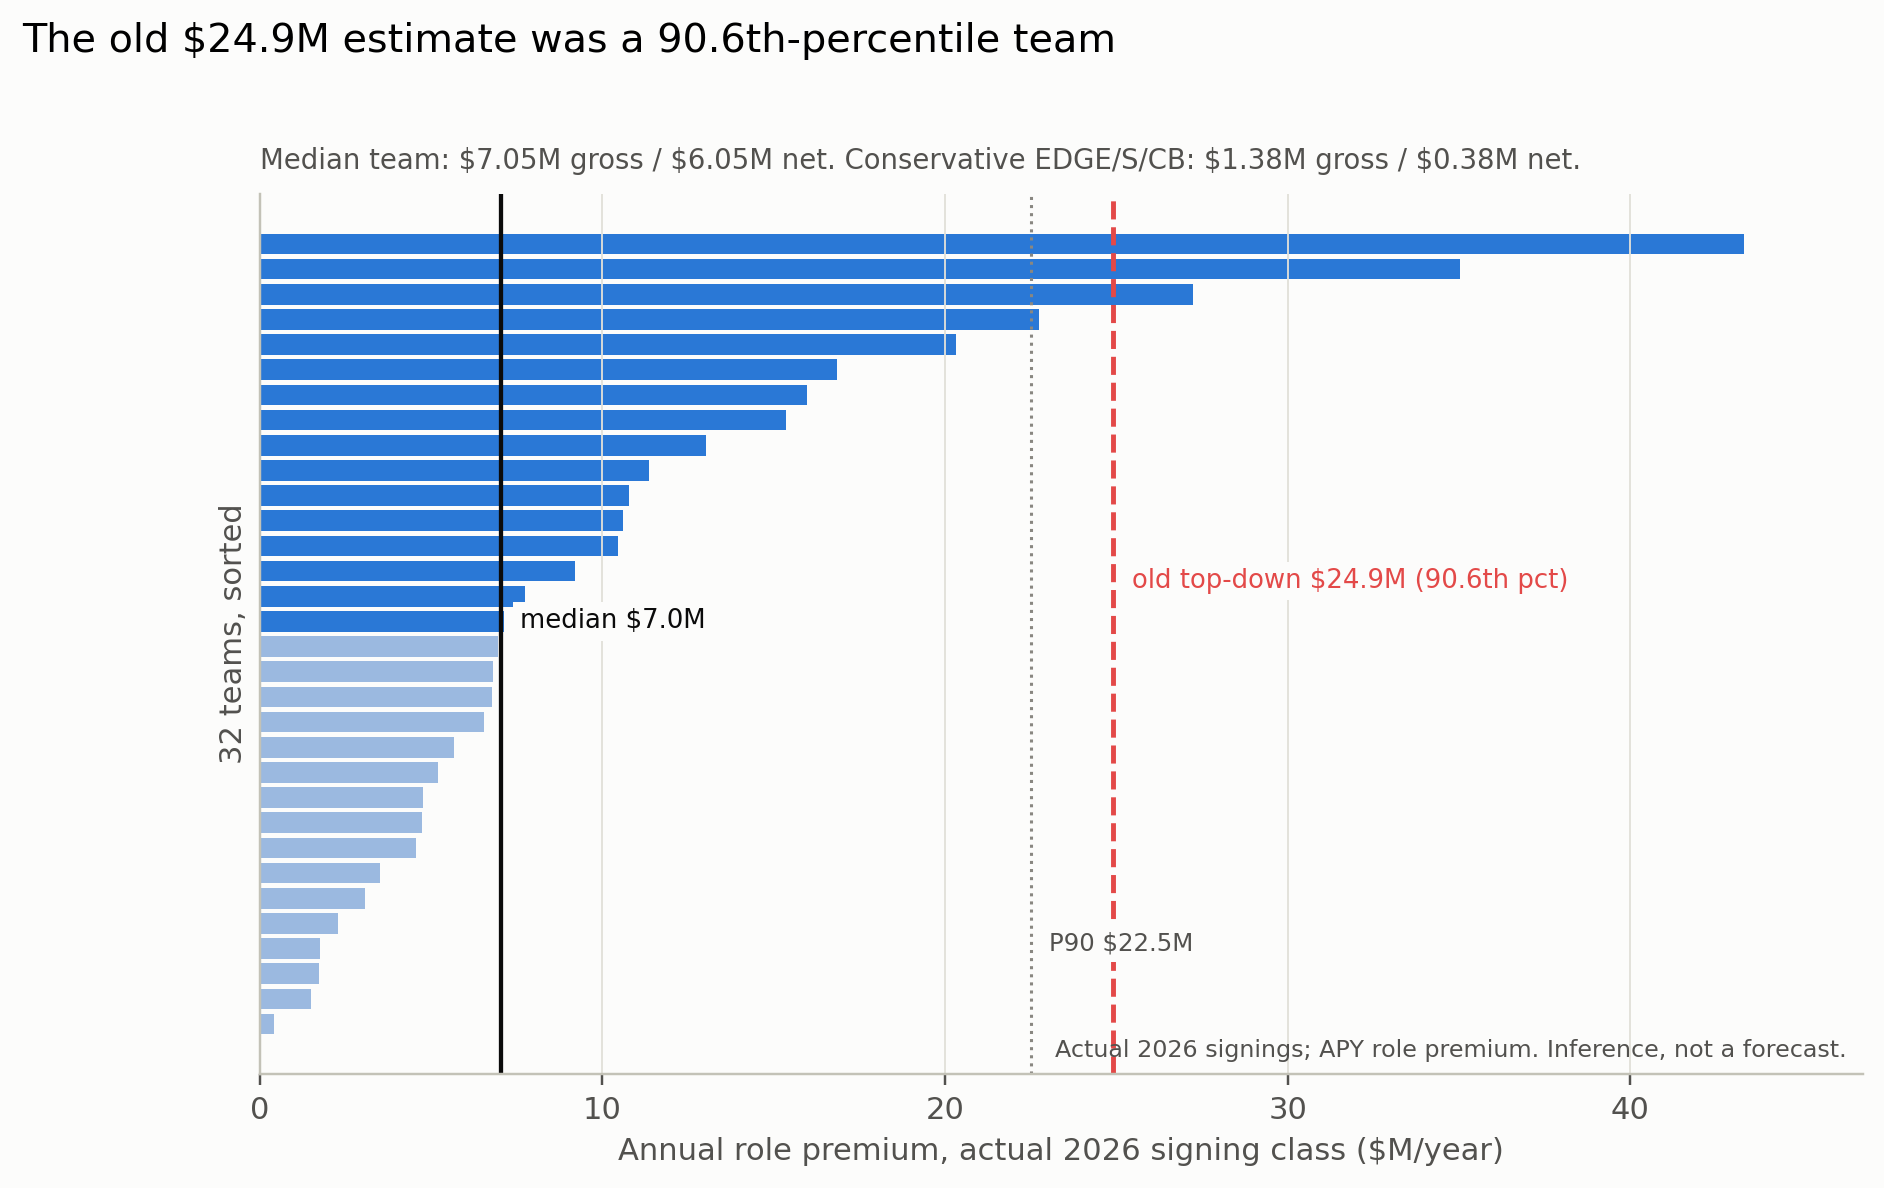
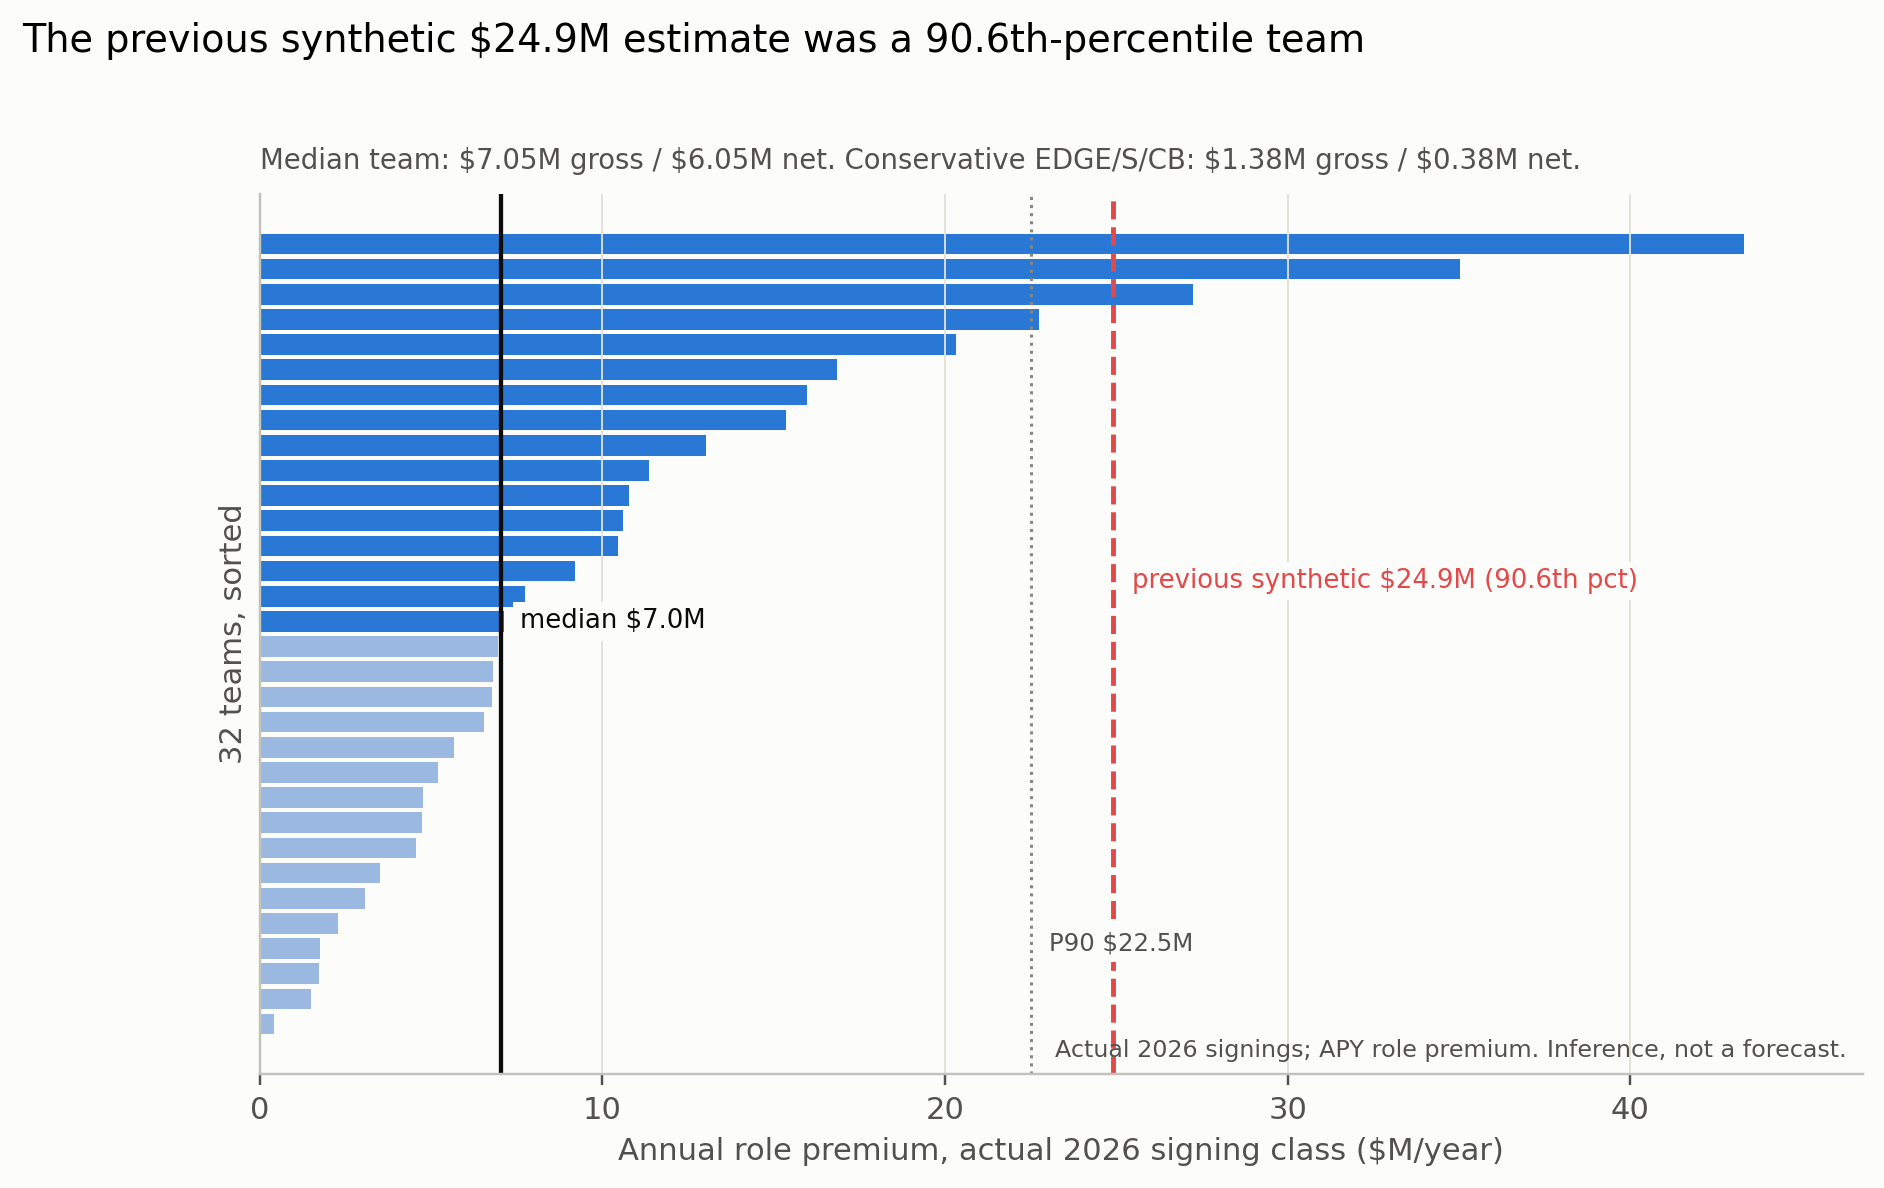
Explain the previous estimate and link the headline findings
Define the synthetic $24.9M estimate at first use and add links from
each headline number to the pricing, valuation, surplus, and legacy
notes.

Changed region(s): [[0.0308, 0.0, 0.7081, 0.0623], [0.5849, 0.4672, 0.862, 0.4983]]

diff --git a/implications/free_agency/code/figures.py b/implications/free_agency/code/figures.py
@@ -82,8 +82,9 @@ def headline() -> None:
     ax.set_xlabel("Annual role premium, actual 2026 signing class ($M/year)")
     ax.set_xlim(0, max(values.max(), old) * 1.08)
     fig.suptitle(
-        f"The old \\${old:.1f}M estimate was a {old_pct*100:.1f}th-percentile team",
-        x=0.01, y=1.03, ha="left", fontsize=13.0,
+        f"The previous synthetic \\${old:.1f}M estimate was a "
+        f"{old_pct*100:.1f}th-percentile team",
+        x=0.01, y=1.03, ha="left", fontsize=12.5,
     )
     ax.set_title(
         f"Median team: \\${median:.2f}M gross / \\${median-1.0:.2f}M net. "
@@ -102,7 +103,8 @@ def headline() -> None:
         color=SECONDARY, va="center", bbox=box,
     )
     ax.annotate(
-        f"old top-down \\${old:.1f}M ({old_pct*100:.1f}th pct)", xy=(old, len(d) * 0.55),
+        f"previous synthetic \\${old:.1f}M ({old_pct*100:.1f}th pct)",
+        xy=(old, len(d) * 0.55),
         xytext=(6, 0), textcoords="offset points", fontsize=8.5,
         color=RED, va="center", bbox=box,
     )

diff --git a/README.md b/README.md
@@ -4,27 +4,29 @@ This repo contains the judged 2027 Big Data Bowl entry and the post-competition 
 
 **The judged entry:** a 10 Hz Combine burst predicts interior pressure and sacks; the 40-yard dash and 10-yard split do not. The depth chart does not reward measured performance — next-season role follows current role and draft. The cap does reward performance.
 
-**The headline extension:** the contract market pays for role. A median team's actual 2026 free-agent signing class implies **$7.05M gross / $6.05M net per year**. The earlier top-down estimate of **$24.9M** was a 90.6th-percentile synthetic portfolio, not the median team.
+**The headline extension:** the contract market pays for role. A median team's actual 2026 free-agent signing class implies **$7.05M gross / $6.05M net per year**.
 
-![The old $24.9M estimate was a 90.6th-percentile team; the median team's actual 2026 class is $7.05M gross / $6.05M net.](implications/free_agency/writeups/figures/fa_headline.png)
+**What the previous $24.9M estimate was.** The first market-portfolio pass did not use actual contracts. It took nine per-position raw-vs-role performance gaps from the 2025 cap ledger, applied a 0.40 haircut to each, multiplied by a synthetic renewal portfolio scaled by team positional spending, and summed the positions. That produced **$24.9M** for a hypothetical one-team portfolio. The dedicated free-agency investigation replaced it with the observed 2026 signing class. The $24.9M figure sits at the **90.6th percentile** of the 32-team distribution; the median team is **$7.05M gross / $6.05M net**. See the [legacy note](implications/markets/writeups/03_free_agency.md) for the old calculation.
+
+![The previous synthetic $24.9M estimate was a 90.6th-percentile team; the median team's actual 2026 class is $7.05M gross / $6.05M net.](implications/free_agency/writeups/figures/fa_headline.png)
 
 ## The headline number
 
-| Measure | Value |
-|---|---:|
-| Median team, 2026 free-agent class | **$7.05M gross / $6.05M net** |
-| Conservative (EDGE/S/CB) | $1.38M gross / $0.38M net |
-| Low | $0.52M gross / $0.02M net |
-| Old top-down estimate | $24.91M (90.6th percentile) |
-| Portfolio total | $11.03M base / $5.37M conservative / −$0.68M low |
+| Measure | Value | Details |
+|---|---:|---|
+| Median team, 2026 free-agent class | **$7.05M gross / $6.05M net** | [valuation](implications/free_agency/writeups/04_valuation.md) |
+| Conservative (EDGE/S/CB) | $1.38M gross / $0.38M net | [valuation](implications/free_agency/writeups/04_valuation.md) |
+| Low | $0.52M gross / $0.02M net | [valuation](implications/free_agency/writeups/04_valuation.md) |
+| Previous synthetic estimate (not contracts) | $24.91M (90.6th percentile) | [legacy note](implications/markets/writeups/03_free_agency.md) |
+| Portfolio total | $11.03M base / $5.37M conservative / −$0.68M low | [portfolio](implications/markets/writeups/05_portfolio.md) |
 
-- 2026 APY role premium: **+0.179** (95% CI 0.022–0.336, n=306). 2025 cap ledger: **+0.185** (0.094–0.276, n=909).
-- The cross-checks are weaker: 2025 active APY +0.105 (CI crosses zero); 2024 +0.029 (null); draft-matched 2026 +0.151 (0.016–0.286).
-- Role is also priced in guarantees: guarantee share rises from 0.46 to 0.60 across snap-share quintiles.
-- The premium is concentrated: the top 10% of contracts carry **51%** of it.
-- Team changes do not earn a detectable free-agent premium: +0.499 (95% CI −0.164 to 1.162).
+- 2026 APY role premium: **+0.179** (95% CI 0.022–0.336, n=306). 2025 cap ledger: **+0.185** (0.094–0.276, n=909). [Pricing details](implications/free_agency/writeups/02_pricing.md), [model code](implications/free_agency/code/pricing.py).
+- The cross-checks are weaker: 2025 active APY +0.105 (CI crosses zero); 2024 +0.029 (null); draft-matched 2026 +0.151 (0.016–0.286). [Pricing details](implications/free_agency/writeups/02_pricing.md).
+- Role is also priced in guarantees: guarantee share rises from 0.46 to 0.60 across snap-share quintiles. [Guarantee model](implications/free_agency/writeups/02_pricing.md).
+- The premium is concentrated: the top 10% of contracts carry **51%** of it. [Surplus details](implications/free_agency/writeups/03_surplus.md), [code](implications/free_agency/code/surplus.py).
+- Team changes do not earn a detectable free-agent premium: +0.499 (95% CI −0.164 to 1.162). [Pricing details](implications/free_agency/writeups/02_pricing.md).
 
-The dollar figures are inferences from the 2026 class, not forecasts or causal estimates.
+The dollar figures are inferences from the 2026 class, not forecasts or causal estimates. The full investigation is in [`implications/free_agency/`](implications/free_agency/README.md).
 
 ## What the judged entry found
 
@@ -35,7 +37,7 @@ The dollar figures are inferences from the 2026 class, not forecasts or causal e
 - Allocation gap: **+0.59 SD** for late picks/UDFAs, **−0.92 SD** for early picks.
 - The two-agent wedge (+0.28), the Yellow Square fallback (wide null), and the weekly check are in the entry.
 
-Full text: [`writeup/submission.md`](writeup/submission.md). Public notebook: [`notebooks/02_final_public.ipynb`](notebooks/02_final_public.ipynb).
+Full text: [`writeup/submission.md`](writeup/submission.md) (Tier 0/1/2), [`docs/APPENDIX.md`](docs/APPENDIX.md) (exploratory cuts). Public notebook: [`notebooks/02_final_public.ipynb`](notebooks/02_final_public.ipynb). Code: [`interior_burst.py`](src/discovery/interior_burst.py), [`combine_movement.py`](src/features/combine_movement.py), [`role_allocation.py`](src/discovery/role_allocation.py), [`cost_risk.py`](src/discovery/cost_risk.py), [`agentic_allocation.py`](src/framework/agentic_allocation.py).
 
 ## Why the brief led here
 
@@ -44,7 +46,7 @@ The brief asked for a non-obvious, actionable linkage between 10 Hz Combine trac
 1. **Non-obvious:** compare the 10 Hz burst with the stopwatch. The burst carries the pressure signal; the stopwatch does not.
 2. **One position:** DL. The cross-position check showed the measurement is position-specific, so the allocation side is what travels.
 3. **Actionable:** a signal that does not change who plays is not useful. The depth chart does not reward performance; the cap does.
-4. **Dollar:** the contract market is where the role premium has a price. The median team's 2026 class is $6.05M net; the old $24.9M was an upper-tail team.
+4. **Dollar:** the contract market is where the role premium has a price. The median team's 2026 class is $6.05M net; the previous synthetic $24.9M estimate was an upper-tail team.
 
 The judging dimensions reported for the event are Innovation, Accuracy, Impact, and Clarity; the official weighted rubric is not public. The NFL [announcement](https://media.nfl.com/news-and-releases/consumer-products/national-football-league-announces-ninth-annual-big-data-bowl-po) states the brief's focus.
 
